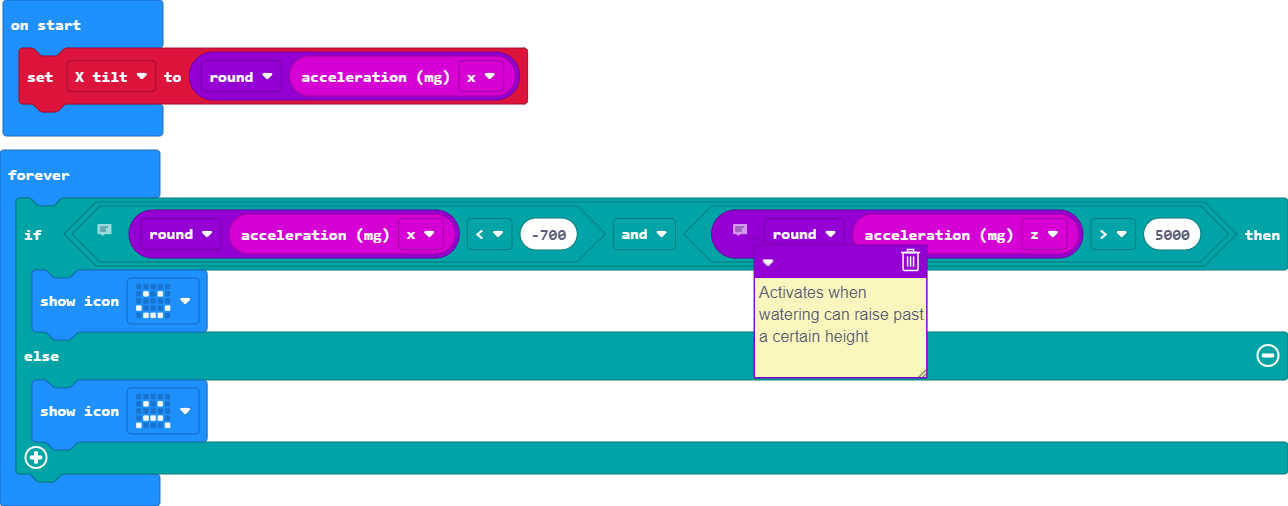
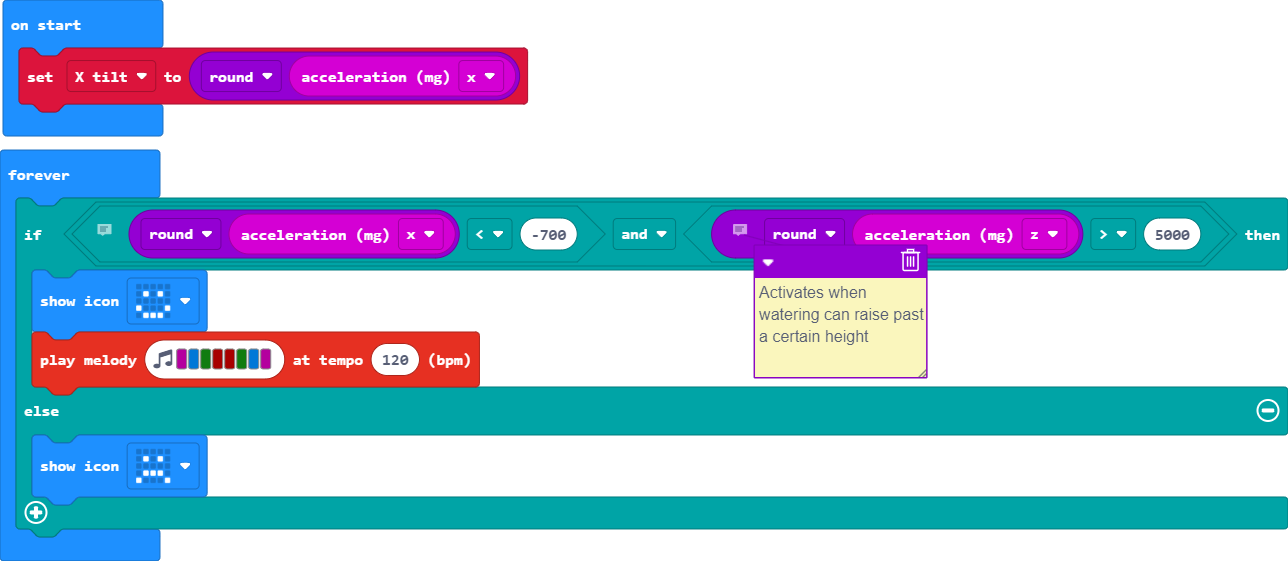
Update main.blocks, main.ts

diff --git a/main.ts b/main.ts
@@ -4,6 +4,7 @@ basic.forever(function () {
     // Activates when watering can raise past a certain height
     if (Math.round(input.acceleration(Dimension.X)) < -700 && Math.round(input.acceleration(Dimension.Z)) > 5000) {
         basic.showIcon(IconNames.Happy)
+        music.playMelody("C E G C5 C5 G E C ", 120)
     } else {
         basic.showIcon(IconNames.Sad)
     }
